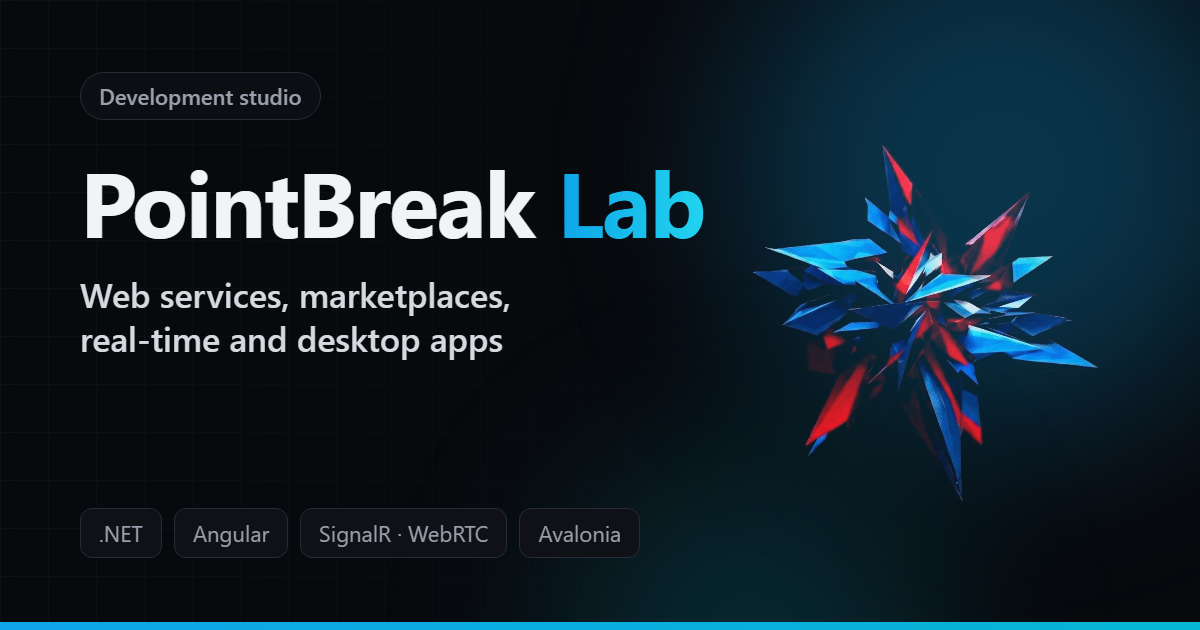
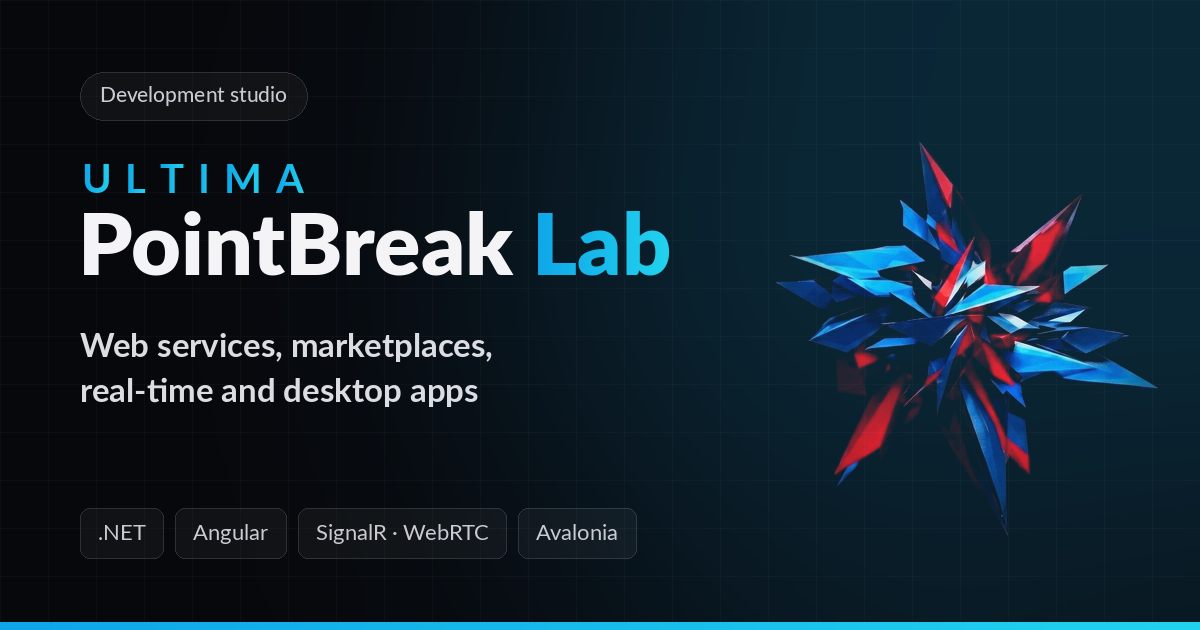
Rename to Ultima PointBreak Lab and tighten SEO basics
- New brand name in titles, meta, Open Graph, JSON-LD, header and footer
- Redrawn per-locale social preview images with the new name
- Real 404 page (HTTP 404, noindex) instead of redirecting unknown URLs home
- favicon.ico, apple-touch-icon, 192/512 icons and site.webmanifest
- Logo shrunk from 1024px/97 KB to 512px/42 KB, plus a 96px copy for header/footer
- Optional Yandex Metrika (off until yandexMetrikaId is set) with a contact form goal

Claude-Session: https://claude.ai/code/session_014aEyc7xmpkmlwnggzymqoq

diff --git a/Client/point-craft-client/src/app/i18n/translations.ts b/Client/point-craft-client/src/app/i18n/translations.ts
@@ -106,14 +106,14 @@ export interface Translations {
 
 const en: Translations = {
   seo: {
-    homeTitle: 'PointBreak Lab — web services, marketplaces, real-time & desktop app development',
+    homeTitle: 'Ultima PointBreak Lab — web services, marketplaces, real-time & desktop app development',
     homeDescription:
-      'PointBreak Lab builds web services, SaaS, marketplaces, real-time apps with chat and video calls, ' +
+      'Ultima PointBreak Lab builds web services, SaaS, marketplaces, real-time apps with chat and video calls, ' +
       'and cross-platform desktop software on .NET and Angular — with SSR and SEO out of the box.',
     organizationDescription:
       'Development studio: web services, SaaS, marketplaces, real-time and desktop applications on .NET and Angular.',
-    serviceTitleSuffix: 'PointBreak Lab',
-    projectTitleSuffix: 'PointBreak Lab case study',
+    serviceTitleSuffix: 'Ultima PointBreak Lab',
+    projectTitleSuffix: 'Ultima PointBreak Lab case study',
   },
   nav: {
     services: 'Services',
@@ -131,7 +131,7 @@ const en: Translations = {
     switchToDark: 'Switch to dark theme',
   },
   hero: {
-    badge: 'PointBreak Lab · development studio',
+    badge: 'Ultima PointBreak Lab · development studio',
     title: 'Web services, marketplaces, and desktop apps for problems a template can’t solve',
     subtitle:
       'From SSR catalogs and SaaS dashboards to messengers with video calls and plugin-based desktop software. ' +
@@ -247,20 +247,20 @@ const en: Translations = {
     submitting: 'Sending…',
   },
   footer: {
-    tagline: 'PointBreak Lab. Web services, real-time and desktop apps.',
+    tagline: 'Ultima PointBreak Lab. Web services, real-time and desktop apps.',
   },
 };
 
 const ru: Translations = {
   seo: {
-    homeTitle: 'PointBreak Lab — разработка веб-сервисов, маркетплейсов, real-time и десктоп-приложений',
+    homeTitle: 'Ultima PointBreak Lab — разработка веб-сервисов, маркетплейсов, real-time и десктоп-приложений',
     homeDescription:
-      'PointBreak Lab разрабатывает веб-сервисы, SaaS, маркетплейсы, мессенджеры с видеозвонками и ' +
+      'Ultima PointBreak Lab разрабатывает веб-сервисы, SaaS, маркетплейсы, мессенджеры с видеозвонками и ' +
       'кроссплатформенные десктоп-приложения на .NET и Angular — с SSR и SEO из коробки.',
     organizationDescription:
       'Студия разработки: веб-сервисы, SaaS, маркетплейсы, real-time и десктоп-приложения на .NET и Angular.',
-    serviceTitleSuffix: 'PointBreak Lab',
-    projectTitleSuffix: 'кейс PointBreak Lab',
+    serviceTitleSuffix: 'Ultima PointBreak Lab',
+    projectTitleSuffix: 'кейс Ultima PointBreak Lab',
   },
   nav: {
     services: 'Услуги',
@@ -278,7 +278,7 @@ const ru: Translations = {
     switchToDark: 'Включить тёмную тему',
   },
   hero: {
-    badge: 'PointBreak Lab · студия разработки',
+    badge: 'Ultima PointBreak Lab · студия разработки',
     title: 'Веб-сервисы, маркетплейсы и десктоп-приложения для задач, которые не решить шаблоном',
     subtitle:
       'От SSR-каталогов и SaaS-кабинетов до мессенджеров с видеозвонками и десктоп-программ на плагинах. ' +
@@ -394,7 +394,7 @@ const ru: Translations = {
     submitting: 'Отправляем…',
   },
   footer: {
-    tagline: 'PointBreak Lab. Веб-сервисы, real-time и десктоп-приложения.',
+    tagline: 'Ultima PointBreak Lab. Веб-сервисы, real-time и десктоп-приложения.',
   },
 };
 

diff --git a/Client/point-craft-client/src/app/core/analytics/analytics.service.ts b/Client/point-craft-client/src/app/core/analytics/analytics.service.ts
@@ -1,0 +1,42 @@
+import { DOCUMENT, isPlatformBrowser } from '@angular/common';
+import { Injectable, PLATFORM_ID, inject } from '@angular/core';
+import { NavigationEnd, Router } from '@angular/router';
+import { filter } from 'rxjs';
+import { environment } from '../../../environments/environment';
+
+type Ym = (id: number, method: string, ...args: unknown[]) => void;
+
+// Yandex Metrika, loaded in the browser only and only when environment.yandexMetrikaId is set,
+// so local builds and SSR never send hits. The router is single-page, so every navigation after
+// the first is reported as its own hit.
+@Injectable({ providedIn: 'root' })
+export class AnalyticsService {
+  private readonly document = inject(DOCUMENT);
+  private readonly router = inject(Router);
+  private readonly isBrowser = isPlatformBrowser(inject(PLATFORM_ID));
+  private readonly counterId = environment.yandexMetrikaId;
+
+  init(): void {
+    if (!this.isBrowser || !this.counterId) return;
+
+    const w = this.document.defaultView as Window & { ym?: Ym & { a?: unknown[]; l?: number } };
+    w.ym ??= Object.assign((...args: unknown[]) => (w.ym!.a ??= []).push(args), { l: Date.now() }) as Ym;
+
+    const script = this.document.createElement('script');
+    script.async = true;
+    script.src = 'https://mc.yandex.ru/metrika/tag.js';
+    this.document.head.appendChild(script);
+
+    w.ym(this.counterId, 'init', { clickmap: true, trackLinks: true, accurateTrackBounce: true, webvisor: true, defer: true });
+
+    this.router.events.pipe(filter((event) => event instanceof NavigationEnd)).subscribe((event) => {
+      w.ym?.(this.counterId, 'hit', w.location.origin + event.urlAfterRedirects, { referer: this.document.referrer, title: this.document.title });
+    });
+  }
+
+  /** Reports a conversion; the goal must exist in the Metrika counter settings with the same identifier. */
+  reachGoal(goal: string): void {
+    if (!this.isBrowser || !this.counterId) return;
+    (this.document.defaultView as Window & { ym?: Ym }).ym?.(this.counterId, 'reachGoal', goal);
+  }
+}

diff --git a/Client/point-craft-client/src/index.html b/Client/point-craft-client/src/index.html
@@ -4,13 +4,15 @@
   <meta charset="utf-8">
   <!-- Defaults for client-only routes (login/dashboard). Public pages replace the title,
        description, canonical, hreflang, Open Graph and JSON-LD per page — see core/seo/seo.service.ts. -->
-  <title>PointBreak Lab — разработка веб-сервисов и десктоп-приложений</title>
-  <meta name="description" content="PointBreak Lab — веб-сервисы, маркетплейсы, real-time и десктоп-приложения на .NET и Angular.">
+  <title>Ultima PointBreak Lab — разработка веб-сервисов и десктоп-приложений</title>
+  <meta name="description" content="Ultima PointBreak Lab — веб-сервисы, маркетплейсы, real-time и десктоп-приложения на .NET и Angular.">
   <base href="/">
   <meta name="viewport" content="width=device-width, initial-scale=1">
   <meta name="theme-color" content="#08090d">
-  <link rel="icon" type="image/png" href="logo.png">
-  <link rel="apple-touch-icon" href="logo.png">
+  <link rel="icon" href="favicon.ico" sizes="48x48">
+  <link rel="icon" type="image/png" sizes="192x192" href="icon-192.png">
+  <link rel="apple-touch-icon" href="apple-touch-icon.png">
+  <link rel="manifest" href="site.webmanifest">
   <meta name="google-site-verification" content="bSNvIuDpZwTebODAd4R8PJeZ5tZe3Rs3BEbMo7mrAEE" />
   <meta name="yandex-verification" content="5472ff1e7ac70667" />
 </head>

diff --git a/Client/point-craft-client/src/app/pages/not-found/not-found.ts b/Client/point-craft-client/src/app/pages/not-found/not-found.ts
@@ -1,0 +1,32 @@
+import { ChangeDetectionStrategy, Component, RESPONSE_INIT, effect, inject } from '@angular/core';
+import { RouterLink } from '@angular/router';
+import { SiteFooter } from '../../components/site-footer/site-footer';
+import { SiteHeader } from '../../components/site-header/site-header';
+import { SeoService } from '../../core/seo/seo.service';
+import { LocaleStore } from '../../stores/locale.store';
+
+// Catch-all for unknown public URLs. Answers with a real 404 under SSR instead of redirecting to
+// the landing page, which search engines treat as a soft 404.
+@Component({
+  selector: 'app-not-found',
+  imports: [SiteHeader, SiteFooter, RouterLink],
+  templateUrl: './not-found.html',
+  changeDetection: ChangeDetectionStrategy.OnPush,
+})
+export class NotFound {
+  private readonly localeStore = inject(LocaleStore);
+  private readonly seo = inject(SeoService);
+  private readonly responseInit = inject(RESPONSE_INIT, { optional: true });
+
+  protected readonly t = this.localeStore.t;
+  protected readonly home = this.localeStore.home;
+
+  constructor() {
+    if (this.responseInit) this.responseInit.status = 404;
+
+    effect(() => {
+      const t = this.t();
+      this.seo.update({ title: t.detail.notFoundTitle, description: t.detail.notFoundText, path: '/', noindex: true });
+    });
+  }
+}

diff --git a/Client/point-craft-client/src/app/components/contact-section/contact-section.ts b/Client/point-craft-client/src/app/components/contact-section/contact-section.ts
@@ -1,5 +1,6 @@
 import { ChangeDetectionStrategy, Component, inject, signal } from '@angular/core';
 import { NonNullableFormBuilder, ReactiveFormsModule, Validators } from '@angular/forms';
+import { AnalyticsService } from '../../core/analytics/analytics.service';
 import { Icon } from '../icon/icon';
 import { ContactService } from '../../services/contact.service';
 import { ContentStore } from '../../stores/content.store';
@@ -16,6 +17,7 @@ import { RevealOnScroll } from '../../shared/reveal-on-scroll.directive';
 export class ContactSection {
   private readonly fb = inject(NonNullableFormBuilder);
   private readonly contactService = inject(ContactService);
+  private readonly analytics = inject(AnalyticsService);
   protected readonly contentStore = inject(ContentStore);
   protected readonly t = inject(LocaleStore).t;
 
@@ -42,6 +44,7 @@ export class ContactSection {
     this.contactService.send(this.form.getRawValue()).subscribe(() => {
       this.submitting.set(false);
       this.submitted.set(true);
+      this.analytics.reachGoal('contact_form_submit');
       this.form.reset();
     });
   }

diff --git a/Client/point-craft-client/src/app/app.config.ts b/Client/point-craft-client/src/app/app.config.ts
@@ -1,4 +1,4 @@
-import { ApplicationConfig, provideBrowserGlobalErrorListeners } from '@angular/core';
+import { ApplicationConfig, inject, provideAppInitializer, provideBrowserGlobalErrorListeners } from '@angular/core';
 import { provideHttpClient, withFetch, withInterceptors } from '@angular/common/http';
 import { provideRouter, withComponentInputBinding, withInMemoryScrolling } from '@angular/router';
 
@@ -6,6 +6,7 @@ import { routes } from './app.routes';
 import { provideClientHydration, withEventReplay } from '@angular/platform-browser';
 import { authInterceptor } from './core/auth/auth.interceptor';
 import { apiUrlInterceptor } from './core/http/api-url.interceptor';
+import { AnalyticsService } from './core/analytics/analytics.service';
 
 export const appConfig: ApplicationConfig = {
   providers: [
@@ -19,5 +20,6 @@ export const appConfig: ApplicationConfig = {
     ),
     provideClientHydration(withEventReplay()),
     provideHttpClient(withFetch(), withInterceptors([apiUrlInterceptor, authInterceptor])),
+    provideAppInitializer(() => inject(AnalyticsService).init()),
   ]
 };

diff --git a/Client/point-craft-client/src/app/components/site-footer/site-footer.html b/Client/point-craft-client/src/app/components/site-footer/site-footer.html
@@ -2,8 +2,8 @@
   <div class="mx-auto grid max-w-6xl grid-cols-1 gap-10 sm:grid-cols-2 lg:grid-cols-[1.2fr_1fr_1fr]">
     <div>
       <a [routerLink]="home()" class="inline-flex items-center gap-2 rounded-lg focus-visible:outline-none focus-visible:ring-2 focus-visible:ring-accent-500">
-        <img ngSrc="logo.png" width="1024" height="1024" alt="" class="h-7 w-7 rounded-lg" />
-        <span class="text-sm font-semibold text-foreground">PointBreak <span class="text-accent-500">Lab</span></span>
+        <img ngSrc="logo-96.png" width="96" height="96" alt="" class="h-7 w-7 rounded-lg" />
+        <span class="text-sm font-semibold text-foreground">Ultima PointBreak <span class="text-accent-500">Lab</span></span>
       </a>
       <p class="mt-3 max-w-xs text-sm text-muted-foreground">{{ t().seo.organizationDescription }}</p>
       <a

diff --git a/Client/point-craft-client/src/app/app.routes.ts b/Client/point-craft-client/src/app/app.routes.ts
@@ -9,6 +9,7 @@ const publicPages: Routes = [
   { path: '', component: Landing },
   { path: 'services/:slug', loadComponent: () => import('./pages/service-page/service-page').then((m) => m.ServicePage) },
   { path: 'projects/:slug', loadComponent: () => import('./pages/project-page/project-page').then((m) => m.ProjectPage) },
+  { path: '**', loadComponent: () => import('./pages/not-found/not-found').then((m) => m.NotFound) },
 ];
 
 export const routes: Routes = [
@@ -28,6 +29,6 @@ export const routes: Routes = [
     ],
   },
   { path: 'en', canActivate: [localeGuard('en')], children: publicPages },
+  // Unknown URLs fall through to publicPages' '**' (NotFound, HTTP 404) in the matching locale.
   { path: '', canActivate: [localeGuard('ru')], children: publicPages },
-  { path: '**', redirectTo: '' },
 ];

diff --git a/Client/point-craft-client/src/app/components/site-header/site-header.html b/Client/point-craft-client/src/app/components/site-header/site-header.html
@@ -5,8 +5,8 @@
       class="flex items-center gap-2 rounded-lg focus-visible:outline-none focus-visible:ring-2
              focus-visible:ring-accent-500 focus-visible:ring-offset-2 focus-visible:ring-offset-surface"
     >
-      <img ngSrc="logo.png" width="1024" height="1024" priority alt="" class="h-7 w-7 rounded-lg" />
-      <span class="text-sm font-semibold text-foreground">PointBreak <span class="text-accent-500">Lab</span></span>
+      <img ngSrc="logo-96.png" width="96" height="96" priority alt="" class="h-7 w-7 rounded-lg" />
+      <span class="text-sm font-semibold text-foreground">Ultima PointBreak <span class="text-accent-500">Lab</span></span>
     </a>
 
     <nav aria-label="Primary" class="hidden items-center gap-6 md:flex">

diff --git a/Client/point-craft-client/src/app/pages/not-found/not-found.html b/Client/point-craft-client/src/app/pages/not-found/not-found.html
@@ -1,0 +1,14 @@
+<app-site-header />
+
+<main class="bg-background">
+  <div class="mx-auto max-w-xl px-4 py-32 text-center sm:px-6">
+    <p class="text-sm font-semibold text-accent-500">404</p>
+    <h1 class="mt-2 text-2xl font-semibold text-foreground">{{ t().detail.notFoundTitle }}</h1>
+    <p class="mt-3 text-muted-foreground">{{ t().detail.notFoundText }}</p>
+    <a [routerLink]="home()" class="mt-6 inline-flex rounded-lg bg-accent-500 px-4 py-2 text-sm font-medium text-white hover:bg-accent-600">
+      {{ t().detail.backHome }}
+    </a>
+  </div>
+</main>
+
+<app-site-footer />

diff --git a/Client/point-craft-client/src/app/core/seo/site.ts b/Client/point-craft-client/src/app/core/seo/site.ts
@@ -2,7 +2,7 @@
 // still the original one; change SITE_URL here (and Site:BaseUrl in the API for the sitemap)
 // when the site moves to its own domain.
 export const SITE_URL = 'https://pointcraft.duckdns.org';
-export const SITE_NAME = 'PointBreak Lab';
+export const SITE_NAME = 'Ultima PointBreak Lab';
 export const SITE_LOGO = `${SITE_URL}/logo.png`;
 /** 1200×630 link-preview images (public/og-ru.png, og-en.png), one per locale. */
 export const OG_IMAGE = { ru: `${SITE_URL}/og-ru.png`, en: `${SITE_URL}/og-en.png` } as const;

diff --git a/Client/point-craft-client/src/app/components/header/header.html b/Client/point-craft-client/src/app/components/header/header.html
@@ -1,7 +1,7 @@
 <header class="flex h-14 shrink-0 items-center justify-between border-b border-border bg-surface px-4">
   <div class="flex items-center gap-2">
     <div class="h-7 w-7 rounded-lg bg-gradient-to-br from-accent-500 to-accent2-500"></div>
-    <span class="text-sm font-semibold text-foreground">PointBreak Lab</span>
+    <span class="text-sm font-semibold text-foreground">Ultima PointBreak Lab</span>
   </div>
 
   <div class="flex items-center gap-1">
